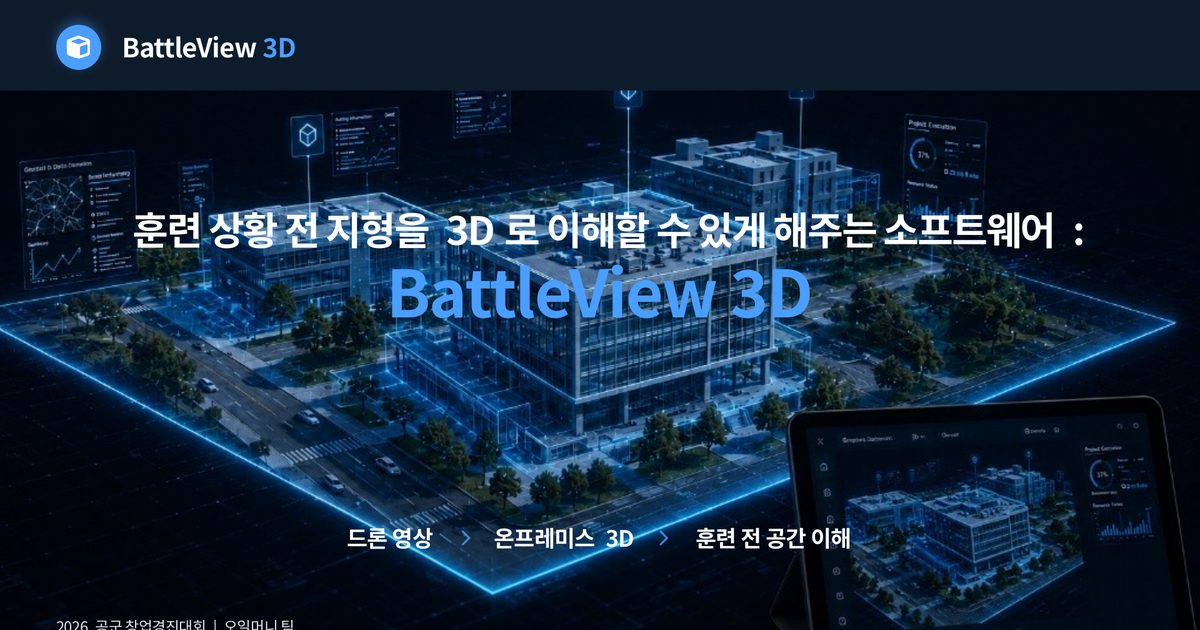
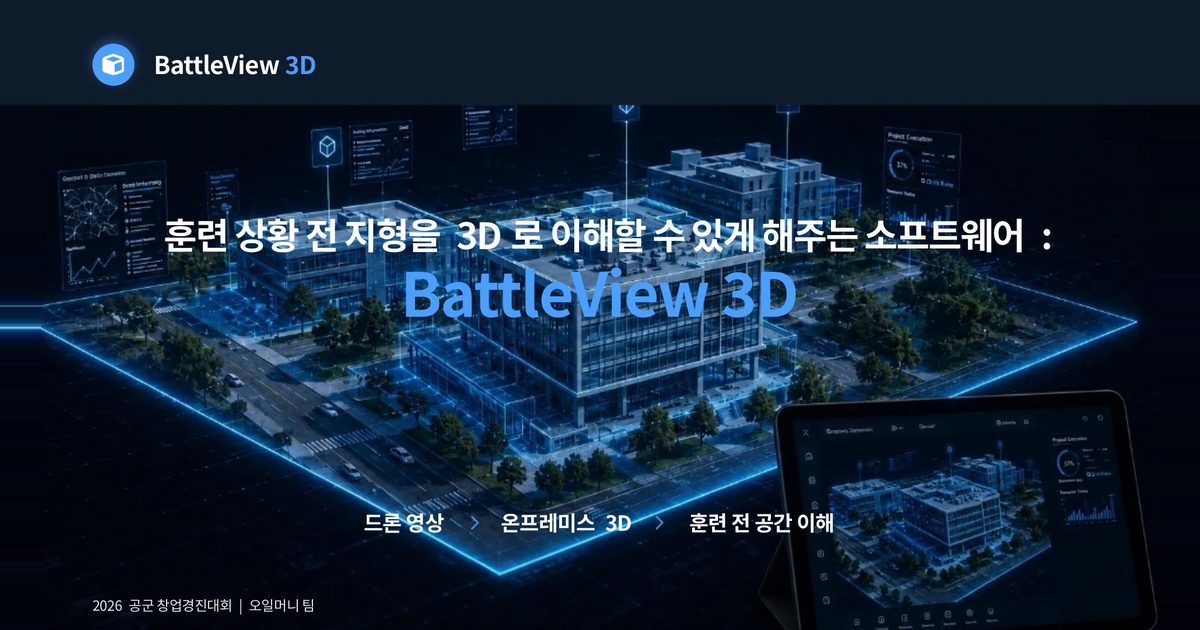
머지 전 점검 반영: 크게 보기 뒤로 가기 스크롤 잠금 · 인쇄 · 영어 공유 이미지
- 갤러리 크게 보기를 연 채 뒤로 가면 사이트 전체가 스크롤되지 않던 문제 — 언마운트 때 잠금 해제
- 인쇄 · PDF 저장 때 아직 등장하지 않은 단락(.rv)이 빠지던 문제
- 클립보드 대체 복사 뒤 키보드 포커스를 버튼으로 되돌림
- 영어판 기본 공유 이미지(og-en.jpg) 추가, 언어별로 고른다
- 덱 공유 이미지를 자르지 않고 슬라이드 전체로(BattleView 하단 캡션 잘림)
- 메인 '수상' 목록에 본선 진출이 함께 세어져 이름을 '수상 · 대회'로
- 프로필 'About' 라벨 번역, 꼬리말 다른 언어 이름에 lang 지정

Claude-Session: https://claude.ai/code/session_013c4nf3WSg6tHBNaWNZh8kT

diff --git a/src/i18n/dictionaries.ts b/src/i18n/dictionaries.ts
@@ -27,7 +27,7 @@ const ko = {
       about: "자기소개",
       education: "학력",
       experience: "경력 · 활동",
-      awards: "수상",
+      awards: "수상 · 대회",
       projects: "프로젝트",
       decks: "발표자료",
       skills: "기술 · 관심 분야",
@@ -166,7 +166,6 @@ const ko = {
     deckBody: "안녕하세요, 갤러리의 「{title}」(Lot {lot}) 작품을 보고 연락드립니다.\n\n- 이름 · 소속:\n- 문의 유형: (공유본 열람 / 새 덱 제작)\n- 발표 목적 · 일정:\n",
   },
   footer: {
-    rights: "강해 · Kang Hea",
     built: "Next.js로 만들고 Vercel에 배포했습니다.",
     top: "맨 위로",
   },
@@ -200,7 +199,7 @@ const en: Dictionary = {
       about: "About",
       education: "Education",
       experience: "Experience",
-      awards: "Awards",
+      awards: "Awards & competitions",
       projects: "Projects",
       decks: "Pitch decks",
       skills: "Skills & interests",
@@ -339,7 +338,6 @@ const en: Dictionary = {
     deckBody: "Hi, I'm reaching out about \"{title}\" (Lot {lot}) in your gallery.\n\n- Name & organization:\n- Request: (view the redacted copy / commission a new deck)\n- Purpose and timeline:\n",
   },
   footer: {
-    rights: "Kang Hea · 강해",
     built: "Built with Next.js, deployed on Vercel.",
     top: "Back to top",
   },

diff --git a/src/lib/metadata.ts b/src/lib/metadata.ts
@@ -6,7 +6,11 @@ import type { SitePath } from "./site";
 
 const ogLocale: Record<Locale, string> = { ko: "ko_KR", en: "en_US" };
 
-export const DEFAULT_OG = { url: "/og.jpg", width: 1200, height: 630 };
+/** 기본 공유 이미지 — 언어별로 문구가 다르다(영어판 미리보기에 한글 문구가 뜨지 않게). */
+export const DEFAULT_OG: Record<Locale, { url: string; width: number; height: number }> = {
+  ko: { url: "/og.jpg", width: 1200, height: 630 },
+  en: { url: "/og-en.jpg", width: 1200, height: 630 },
+};
 
 type Options = {
   title: string;
@@ -22,7 +26,7 @@ export function pageMetadata(locale: Locale, path: SitePath, opts: Options): Met
   const languages = Object.fromEntries(locales.map((l) => [l, `/${l}${path}`])) as Record<string, string>;
   // 언어를 모르는 방문자: 홈은 '/'(브라우저 언어로 나눈다), 나머지는 영어판.
   languages["x-default"] = path === "" ? "/" : `/en${path}`;
-  const image = opts.image ?? { ...DEFAULT_OG, alt: dict.meta.title };
+  const image = opts.image ?? { ...DEFAULT_OG[locale], alt: dict.meta.title };
   // 공유 미리보기(카카오톡 · 링크드인)에도 이름이 보이게 — <title> 템플릿은 OG 에 적용되지 않는다.
   const shareTitle = opts.absoluteTitle ? opts.title : `${opts.title} — ${profile.name[locale]}`;
   return {

diff --git a/src/components/site-footer.tsx b/src/components/site-footer.tsx
@@ -1,6 +1,6 @@
 import Link from "next/link";
 import { profile } from "@/content/profile";
-import type { Locale } from "@/i18n/config";
+import { otherLocale, type Locale } from "@/i18n/config";
 import type { Dictionary } from "@/i18n/dictionaries";
 import { mailto } from "@/lib/site";
 import { CopyEmail } from "./copy-email";
@@ -35,7 +35,7 @@ export function SiteFooter({ locale, dict }: { locale: Locale; dict: Dictionary 
       <div className="border-t border-line">
         <div className="wrap flex flex-col gap-4 py-8 text-sm text-muted-2 sm:flex-row sm:items-center sm:justify-between">
           <p className="m-0 font-semibold">
-            © {new Date().getFullYear()} {dict.footer.rights}
+            © {new Date().getFullYear()} {profile.name[locale]} · <span lang={otherLocale(locale)}>{profile.altName[locale]}</span>
           </p>
           <div className="flex flex-wrap items-center gap-x-5 font-semibold">
             <Link href={`/${locale}/profile`} className="inline-flex min-h-10 items-center hover:text-ink">

diff --git a/src/components/copy-email.tsx b/src/components/copy-email.tsx
@@ -14,7 +14,8 @@ export function CopyEmail({ email, label, done, className = "btn-ghost" }: { ema
     try {
       await navigator.clipboard.writeText(email);
     } catch {
-      // 클립보드 권한이 없으면 선택 범위로 대신 복사
+      // 클립보드 권한이 없으면 선택 범위로 대신 복사 — 선택이 포커스를 가져가므로 끝나면 버튼으로 돌려준다.
+      const back = document.activeElement as HTMLElement | null;
       const ta = document.createElement("textarea");
       ta.value = email;
       ta.setAttribute("readonly", "");
@@ -24,6 +25,7 @@ export function CopyEmail({ email, label, done, className = "btn-ghost" }: { ema
       ta.select();
       document.execCommand("copy");
       ta.remove();
+      back?.focus({ preventScroll: true });
     }
     setCopied(true);
     if (timer.current) clearTimeout(timer.current);

diff --git a/src/app/[locale]/profile/page.tsx b/src/app/[locale]/profile/page.tsx
@@ -84,7 +84,7 @@ export default async function ProfilePage({ params }: PageProps<"/[locale]/profi
       <section className="sec-tight !pt-4" aria-label={dict.profile.title}>
         <div className="wrap grid grid-cols-1 gap-[clamp(12px,1.6vw,20px)] md:grid-cols-6">
           <article className="tile rv md:col-span-4">
-            <p className="kicker">About</p>
+            <p className="kicker">{dict.home.sections.about}</p>
             <p className="body !text-[clamp(17px,1.5vw,19px)]">{tx(profile.intro, locale)}</p>
             <p className="body mt-5 !text-[clamp(17px,1.5vw,19px)]">{tx(profile.now, locale)}</p>
           </article>

diff --git a/src/components/deck-viewer.tsx b/src/components/deck-viewer.tsx
@@ -74,6 +74,13 @@ export function DeckViewer({ title, slides, mat, inquireHref, labels }: { title:
   const onDialogClose = () => {
     document.documentElement.style.overflow = "";
   };
+  // 창이 열린 채 페이지를 떠나면(뒤로 가기 등) close 이벤트 없이 dialog 가 사라진다 — 스크롤 잠금을 여기서도 푼다.
+  useEffect(
+    () => () => {
+      document.documentElement.style.overflow = "";
+    },
+    [],
+  );
 
   const slideLabel = (n: number) => labels.slideOf.replace("{n}", String(n));
   const summary = labels.allSlides

diff --git a/src/app/[locale]/gallery/page.tsx b/src/app/[locale]/gallery/page.tsx
@@ -20,7 +20,7 @@ export async function generateMetadata({ params }: PageProps<"/[locale]/gallery"
   return pageMetadata(locale, "/gallery", {
     title: dict.gallery.titleLocal,
     description: dict.gallery.lead,
-    image: og ? { url: og.src, width: og.width, height: og.height, alt: dict.gallery.titleLocal } : { ...DEFAULT_OG },
+    image: og ? { url: og.src, width: og.width, height: og.height, alt: dict.gallery.titleLocal } : { ...DEFAULT_OG[locale] },
   });
 }
 

diff --git a/src/app/globals.css b/src/app/globals.css
@@ -1171,6 +1171,11 @@
     .glow {
       display: none !important;
     }
+    /* 스크롤하지 않은 채 인쇄 · PDF 저장해도 아직 등장하지 않은 단락이 빠지지 않게 */
+    html.rv-ready .rv:not(.on) {
+      opacity: 1 !important;
+      transform: none !important;
+    }
   }
 }
 

diff --git a/scripts/import_deck.py b/scripts/import_deck.py
@@ -173,17 +173,22 @@ def render_with_libreoffice(pptx: Path, tmp: Path, preview: list[int], width: in
 
 
 def og_image(img: Image.Image) -> Image.Image:
-    """공유 미리보기용 1200×630 — 폭을 맞춘 뒤 위아래를 가운데 기준으로 자른다."""
+    """공유 미리보기용 1200×630 — 자르지 않고 슬라이드 전체를 담는다(가장자리 캡션이 잘리지 않게).
+    남는 띠는 슬라이드 가장자리 1px 을 늘여 채워 바탕이 이어져 보이게 한다."""
     w, h = 1200, 630
-    scaled_h = round(w * img.height / img.width)
-    if scaled_h < h:  # 16:9 보다 납작한 덱 — 높이를 맞추고 좌우를 자른다
-        scaled_w = round(h * img.width / img.height)
-        tmp = img.resize((scaled_w, h), Image.Resampling.LANCZOS)
-        left = (scaled_w - w) // 2
-        return tmp.crop((left, 0, left + w, h))
-    tmp = img.resize((w, scaled_h), Image.Resampling.LANCZOS)
-    top = (scaled_h - h) // 2
-    return tmp.crop((0, top, w, top + h))
+    scale = min(w / img.width, h / img.height)
+    sw, sh = round(img.width * scale), round(img.height * scale)
+    tmp = img.convert("RGB").resize((sw, sh), Image.Resampling.LANCZOS)
+    canvas = Image.new("RGB", (w, h))
+    x, y = (w - sw) // 2, (h - sh) // 2
+    canvas.paste(tmp, (x, y))
+    if x:
+        canvas.paste(tmp.crop((0, 0, 1, sh)).resize((x, sh)), (0, y))
+        canvas.paste(tmp.crop((sw - 1, 0, sw, sh)).resize((w - x - sw, sh)), (x + sw, y))
+    if y:
+        canvas.paste(tmp.crop((0, 0, sw, 1)).resize((sw, y)), (x, 0))
+        canvas.paste(tmp.crop((0, sh - 1, sw, sh)).resize((sw, h - y - sh)), (x, y + sh))
+    return canvas
 
 
 def veil_data_url(img: Image.Image) -> str:
